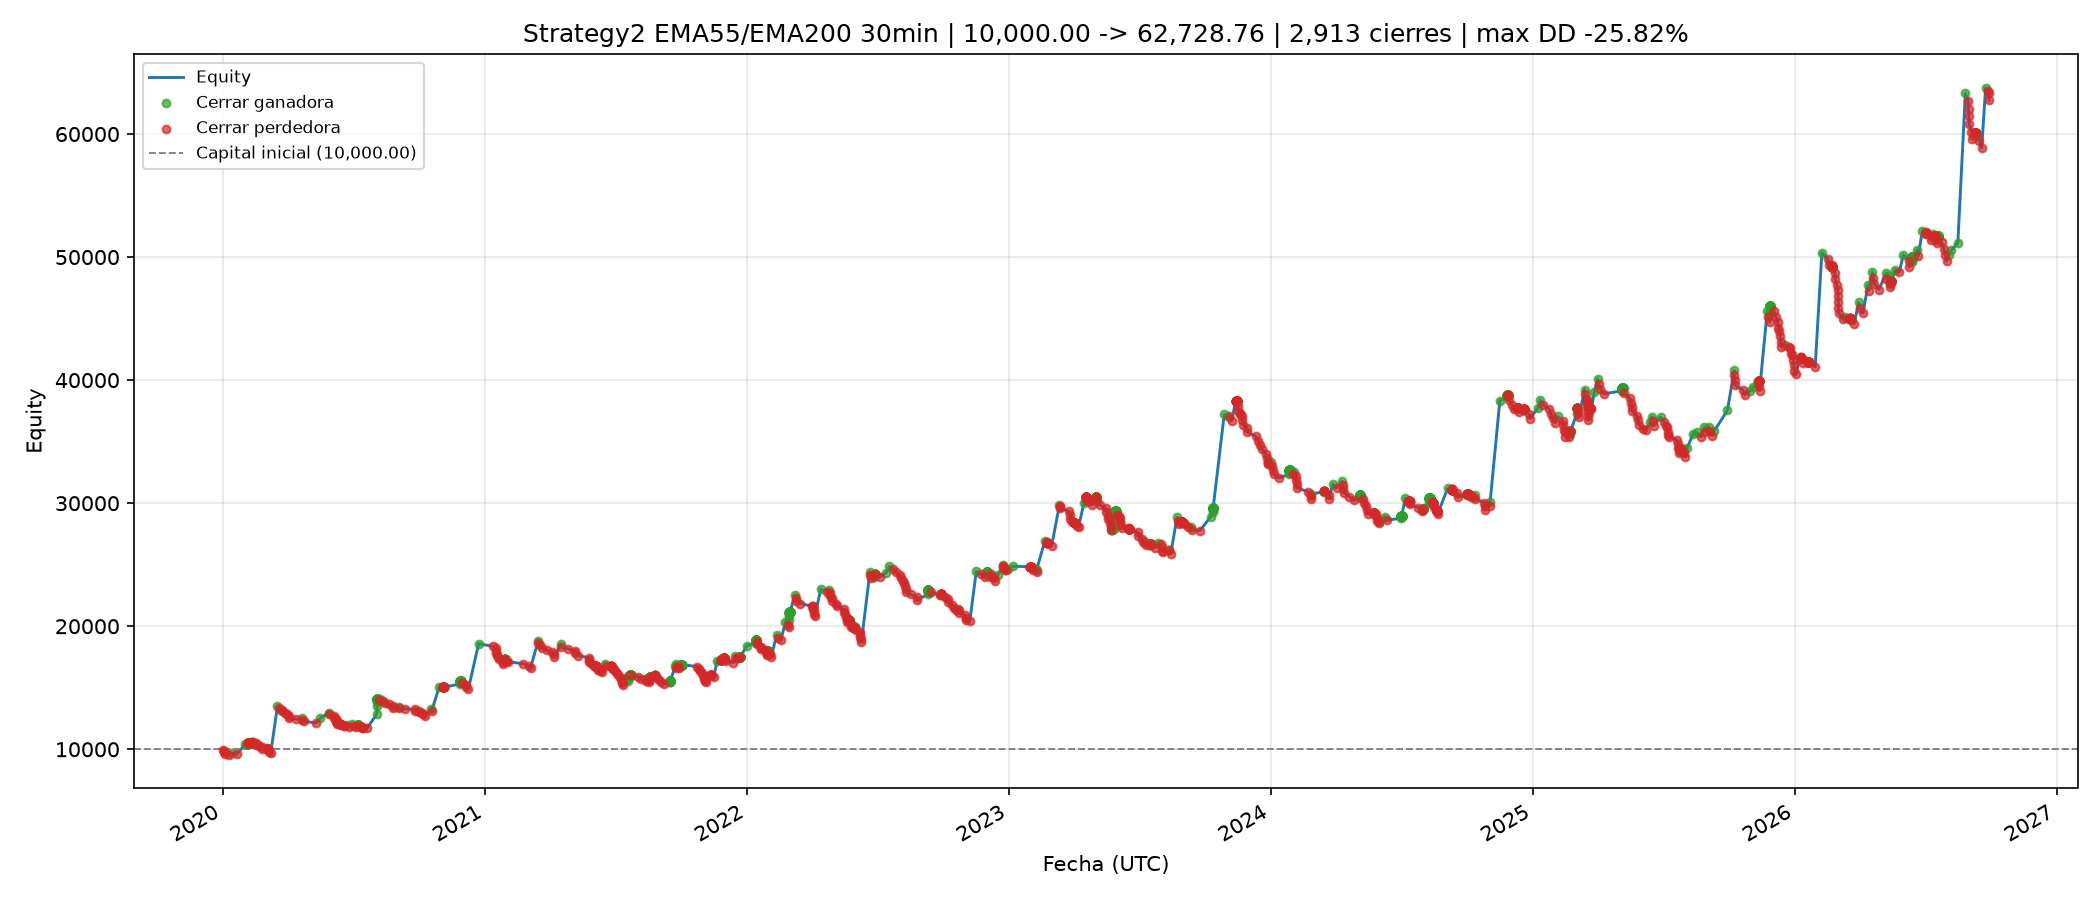
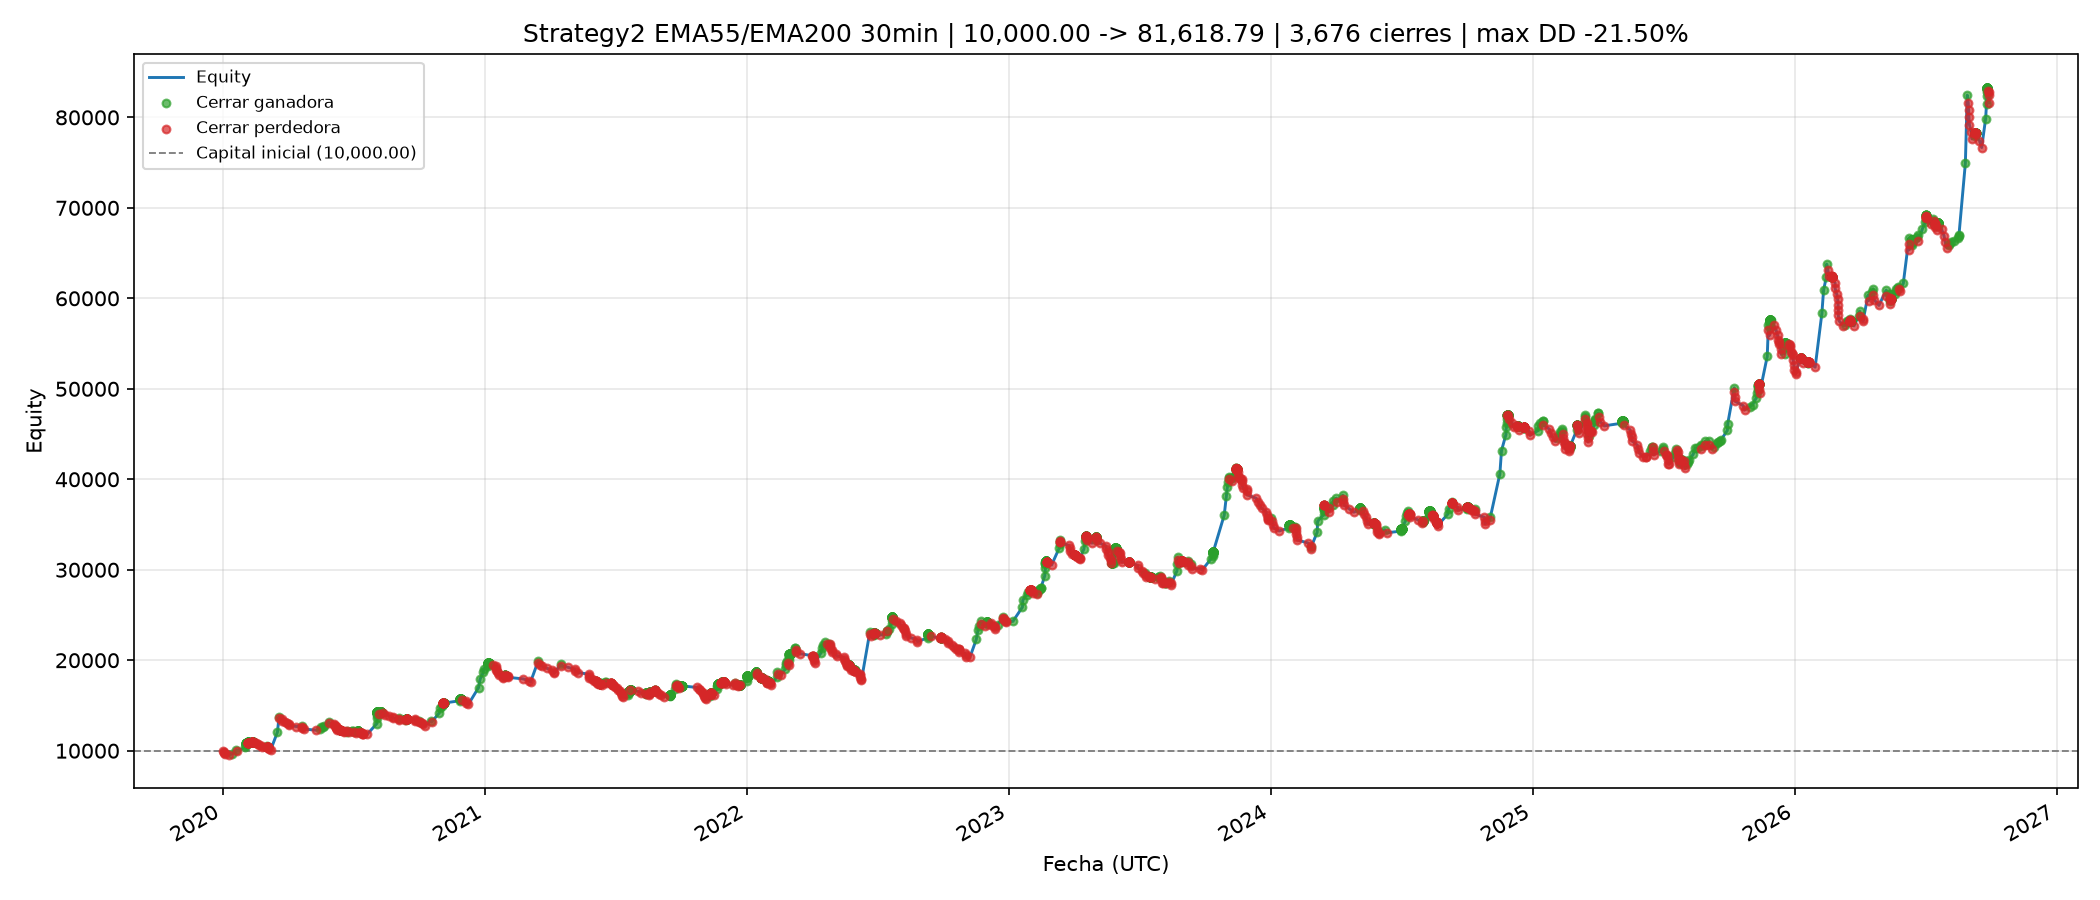
update

diff --git a/backend/services/backtest/bin/legacy/strategy/strategy2.py b/backend/services/backtest/bin/legacy/strategy/strategy2.py
@@ -111,7 +111,7 @@ class Config:
     ema_weakening_exit_enabled: bool = True
     ema_weakening_timeframe: str = "15min"
     ema_weakening_gap_pct: float = 0.001
-    ema_weakening_exit_pct: float = 100.0
+    ema_weakening_exit_pct: float = 50.0
 
     force_close_at_end: bool = True
 
